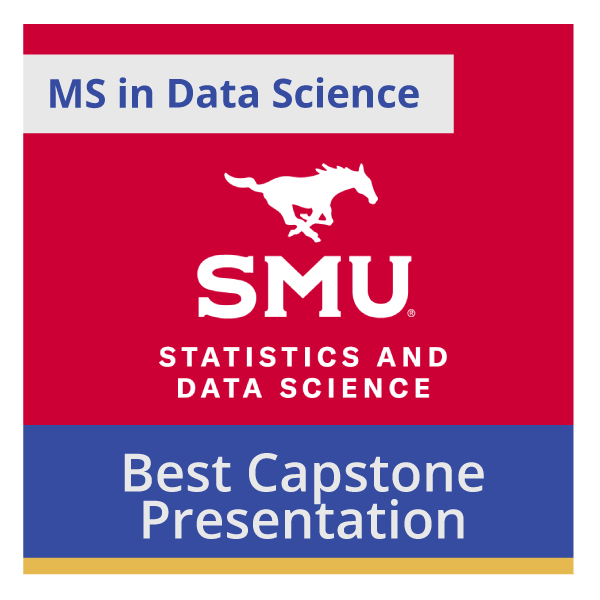
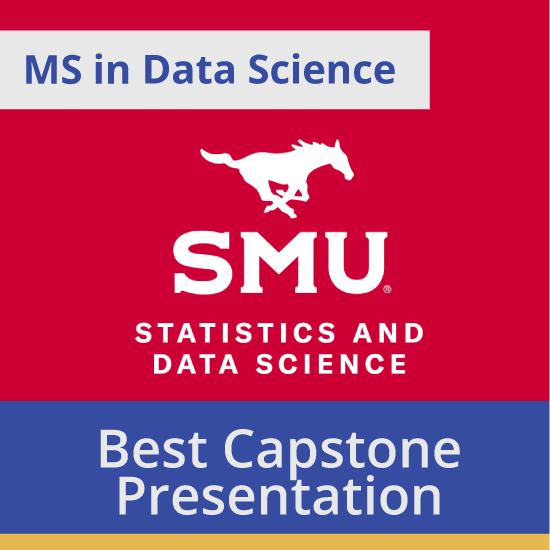
Fix SMU capstone badge not filling its box (#49)
* Crop transparent margin from SMU capstone badge image

The source PNG had a ~24px fully-transparent margin baked in on all
sides (600x600, content only filling 24,24 to 574,574), unlike the
adjacent DataCamp logo which fills its canvas edge to edge. Since
.cert-logo sets a white background, that margin rendered as a visible
white frame around the SMU badge inside its rounded box, making it
look uncentered/not filling the box next to the DataCamp logo.
Cropped the image to its actual content (550x550) so it now fills the
box the same way.

Claude-Session: https://claude.ai/code/session_01ESrX5uThyrkRAiBFPvaLwF

* Cache-bust the SMU badge image reference

Same caching lesson as the stylesheet fixes earlier: image URLs are
cached by browsers too, and this file has no version query, so
browsers that already loaded the old badge would keep serving the
cropped-wrong version indefinitely after the asset changes underneath
it. Add ?v=2 to force a fresh fetch.

Claude-Session: https://claude.ai/code/session_01ESrX5uThyrkRAiBFPvaLwF

---------

diff --git a/index.html b/index.html
@@ -74,7 +74,7 @@
         <div class="card reveal">
           <div class="section-header"><h2>Certifications</h2></div>
           <a class="cert-item" href="certifications/MSDS_Best_Capstone_Presentation_Certificate.pdf" target="_blank" rel="noopener">
-            <img class="cert-logo" src="certifications/msds-best-capstone-presentation.png" alt="SMU badge">
+            <img class="cert-logo" src="certifications/msds-best-capstone-presentation.png?v=2" alt="SMU badge">
             <div class="cert-info">
               <div class="cert-issuer">SMU MSDS</div>
               <div class="cert-name">Best Capstone Presentation</div>
